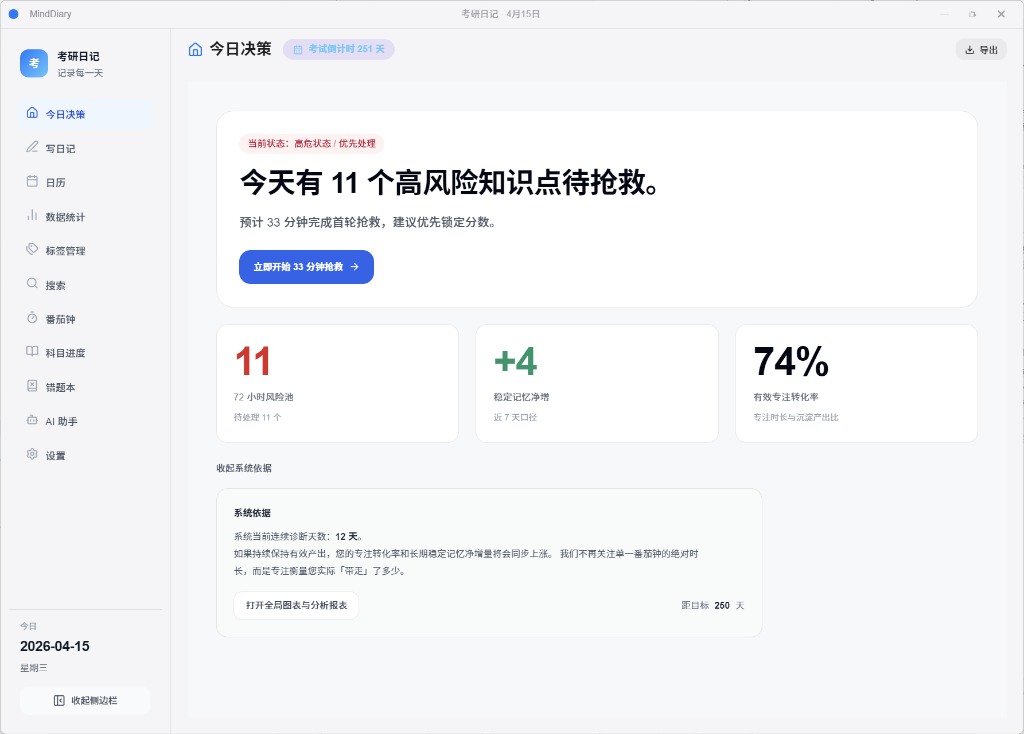
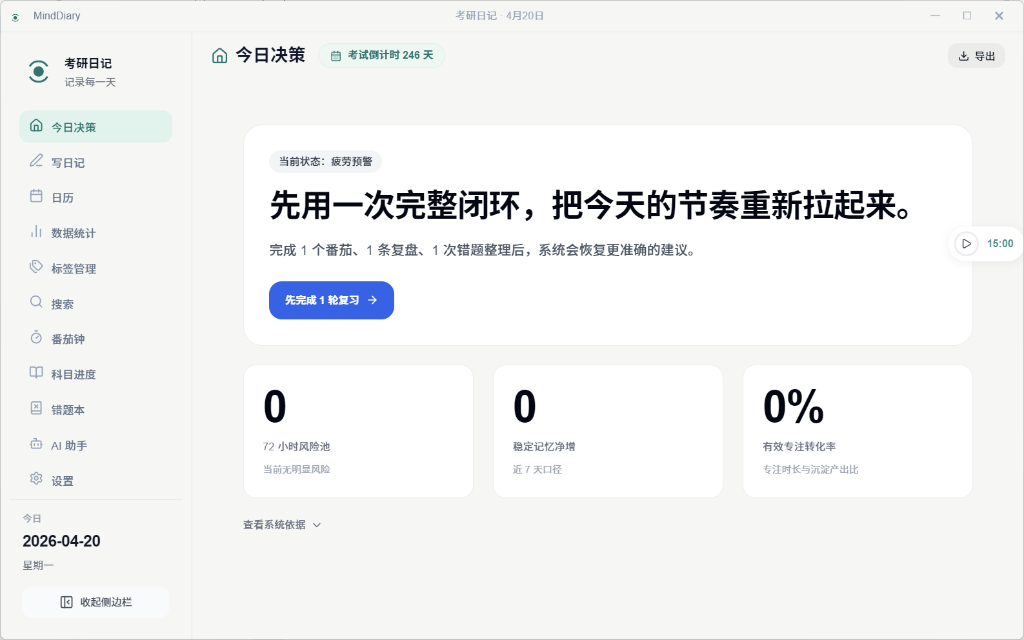
chore: release v1.7.1 - Zen Forest UI final polish and documentation assets update

diff --git a/src/components/AIPanel.tsx b/src/components/AIPanel.tsx
@@ -159,10 +159,10 @@ export default function AIPanel({ entry }: AIPanelProps) {
             position: 'relative'
         }}>
             {/* Header */}
-            <div className="flex items-center justify-between" style={{ padding: 'var(--space-md) var(--space-xl)', borderBottom: '1px solid var(--border-light)', background: 'var(--bg-secondary)', backdropFilter: 'blur(10px)', position: 'sticky', top: 0, zIndex: 10 }}>
+            <div className="flex items-center justify-between" style={{ padding: 'var(--space-md) var(--space-xl)', background: 'transparent', backdropFilter: 'blur(10px)', position: 'sticky', top: 0, zIndex: 10 }}>
                 <div className="flex items-center gap-sm">
-                    <div style={{ width: 36, height: 36, borderRadius: 12, overflow: 'hidden', display: 'flex', alignItems: 'center', justifyContent: 'center', background: 'var(--bg-tertiary)' }}>
-                        <img src="./images/xiao_yan_avatar.png" alt="小研" style={{ width: '100%', height: '100%', objectFit: 'cover' }} />
+                    <div style={{ width: 36, height: 36, borderRadius: 12, display: 'flex', alignItems: 'center', justifyContent: 'center', background: 'linear-gradient(135deg, var(--accent-light), var(--bg-tertiary))', color: 'var(--accent)' }}>
+                        <Bot size={20} />
                     </div>
                     <div>
                         <h2 style={{ fontSize: 16, fontWeight: 600, margin: 0 }}>小研</h2>
@@ -182,26 +182,29 @@ export default function AIPanel({ entry }: AIPanelProps) {
                 {messages.length === 0 && (
                     <div className="empty-state" style={{ height: '100%', animation: 'page-fade-in 0.5s ease-out' }}>
                         <div style={{
-                            width: 80, height: 80, borderRadius: 24, overflow: 'hidden',
-                            display: 'flex', alignItems: 'center', justifyContent: 'center', marginBottom: 'var(--space-md)'
+                            width: 80, height: 80, borderRadius: 24,
+                            display: 'flex', alignItems: 'center', justifyContent: 'center', marginBottom: 'var(--space-md)',
+                            background: 'linear-gradient(135deg, var(--accent-light), var(--bg-tertiary))',
+                            color: 'var(--accent)',
+                            boxShadow: 'inset 0 4px 10px rgba(255,255,255,0.6), var(--shadow-sm)'
                         }}>
-                            <img src="./images/xiao_yan_avatar.png" alt="小研" style={{ width: '100%', height: '100%', objectFit: 'cover' }} />
+                            <Bot size={40} />
                         </div>
                         <h3 style={{ fontSize: 20, marginBottom: 'var(--space-sm)' }}>我是你的专属考研智囊</h3>
                         <p className="text-muted" style={{ maxWidth: 300, textAlign: 'center', lineHeight: 1.6, marginBottom: 'var(--space-2xl)' }}>
                             我可以直接读取你的日记、错题与学习进度，为你提供定制化的复习策略和情绪价值。
                         </p>
 
-                        <div style={{ display: 'grid', gridTemplateColumns: '1fr 1fr', gap: 'var(--space-md)', width: '100%', maxWidth: 500 }}>
+                        <div style={{ display: 'flex', flexWrap: 'wrap', gap: 'var(--space-md)', justifyContent: 'center', width: '100%', maxWidth: 640 }}>
                             {quickPrompts.map((p, i) => (
-                                <button key={i} className="card flex items-center gap-sm cursor-pointer"
-                                    style={{ padding: 'var(--space-md)', border: '1px solid var(--border)', background: 'var(--bg-secondary)', textAlign: 'left', transition: 'all 0.2s' }}
+                                <button key={i} className="flex items-center gap-2 cursor-pointer whitespace-nowrap"
+                                    style={{ padding: '8px 16px', borderRadius: 9999, border: '1px solid var(--border)', background: 'transparent', color: 'var(--text-secondary)', transition: 'all 0.2s' }}
                                     onClick={p.action}
-                                    onMouseEnter={e => Object.assign(e.currentTarget.style, { transform: 'translateY(-2px)', borderColor: 'var(--accent)', boxShadow: 'var(--shadow-sm)' })}
-                                    onMouseLeave={e => Object.assign(e.currentTarget.style, { transform: 'translateY(0)', borderColor: 'var(--border)', boxShadow: 'none' })}
+                                    onMouseEnter={e => Object.assign(e.currentTarget.style, { background: 'var(--bg-tertiary)', color: 'var(--text-primary)', borderColor: 'transparent', transform: 'translateY(-1px)' })}
+                                    onMouseLeave={e => Object.assign(e.currentTarget.style, { background: 'transparent', color: 'var(--text-secondary)', borderColor: 'var(--border)', transform: 'translateY(0)' })}
                                 >
-                                    <span style={{ display: 'flex', alignItems: 'center', justifyContent: 'center', color: 'var(--text-secondary)' }}>{p.icon}</span>
-                                    <span style={{ fontSize: 14, fontWeight: 500 }}>{p.label}</span>
+                                    <span style={{ display: 'flex', alignItems: 'center', justifyContent: 'center', opacity: 0.8 }}>{p.icon}</span>
+                                    <span style={{ fontSize: 13, fontWeight: 500 }}>{p.label}</span>
                                 </button>
                             ))}
                         </div>
@@ -267,15 +270,14 @@ export default function AIPanel({ entry }: AIPanelProps) {
             {/* Input Footer */}
             <div style={{
                 padding: 'var(--space-md) var(--space-xl)',
-                background: 'var(--bg-secondary)',
-                borderTop: '1px solid var(--border)',
+                background: 'transparent',
                 zIndex: 10
             }}>
                 <div style={{
                     display: 'flex', alignItems: 'flex-end', gap: 'var(--space-sm)',
-                    background: 'var(--bg-primary)', padding: '8px',
+                    background: 'var(--bg-secondary)', padding: '8px',
                     borderRadius: 24, border: '1px solid var(--border-light)',
-                    boxShadow: 'var(--shadow-sm)'
+                    boxShadow: '0 4px 20px rgba(0,0,0,0.04)'
                 }}>
                     <textarea
                         className="input"

diff --git a/src/components/HomeDashboard.tsx b/src/components/HomeDashboard.tsx
@@ -58,7 +58,7 @@ export default function HomeDashboard({ setActiveView }: HomeDashboardProps) {
   }
 
   return (
-    <div className="w-full min-h-full bg-[#f7f8fa] dark:bg-[#0a0a0a] overflow-y-auto">
+    <div className="w-full min-h-full bg-transparent overflow-y-auto">
       <div className="mx-auto max-w-6xl px-6 py-8 md:px-10 md:py-10">
         <div className="space-y-6">
           
@@ -86,13 +86,17 @@ export default function HomeDashboard({ setActiveView }: HomeDashboardProps) {
           </section>
 
           <section className="max-w-3xl">
-            <button 
-              type="button"
-              onClick={() => setShowDetails(!showDetails)}
-              className="inline-flex items-center gap-2 text-sm font-medium text-gray-600 bg-transparent border-0 outline-none appearance-none hover:text-gray-900 dark:text-gray-400 dark:hover:text-white transition-colors"
-            >
-              {showDetails ? '收起系统依据' : '查看系统依据'}
-            </button>
+            <div className="flex items-center gap-3">
+              <button 
+                type="button"
+                onClick={() => setShowDetails(!showDetails)}
+                className="inline-flex items-center gap-1.5 text-sm font-medium text-gray-500 bg-transparent border-0 outline-none appearance-none hover:text-[var(--accent)] dark:text-gray-400 transition-colors"
+              >
+                {showDetails ? '收起系统依据' : '查看系统依据'}
+                {showDetails ? <ChevronUp size={16} /> : <ChevronDown size={16} />}
+              </button>
+              {!showDetails && <div className="h-px w-24 bg-gradient-to-r from-gray-200 to-transparent dark:from-gray-800" />}
+            </div>
             
             {showDetails && (
               <div className="mt-4 rounded-2xl border border-gray-200 dark:border-gray-800 bg-gray-50/70 dark:bg-gray-900/50 p-5 md:p-6 opacity-[0.98]">

diff --git a/src/components/MistakeBook.tsx b/src/components/MistakeBook.tsx
@@ -387,7 +387,9 @@ export default function MistakeBook() {
                 ))}
                 {mistakes.length === 0 && (
                     <div className="flex flex-col items-center justify-center text-center" style={{ minHeight: 400, gap: 'var(--space-md)' }}>
-                        <img src="/images/mistakebook_empty.png" alt="空错题本" style={{ width: 120, height: 120, objectFit: 'contain', opacity: 0.9, marginBottom: 'var(--space-sm)' }} />
+                        <div style={{ width: 100, height: 100, borderRadius: '50%', background: 'var(--bg-tertiary)', display: 'flex', alignItems: 'center', justifyContent: 'center', marginBottom: 'var(--space-sm)', border: '2px solid var(--bg-secondary)', boxShadow: 'var(--shadow-sm)' }}>
+                            <BookX size={48} style={{ color: 'var(--accent)', opacity: 0.9 }} />
+                        </div>
                         <h3 className="text-lg font-medium">还没有错题记录</h3>
                         <p className="text-muted" style={{ maxWidth: 300 }}>
                             你可以将遇到的错题或需要背诵的知识点记录在这里，支持关联科目并随时复习。

diff --git a/src/components/Countdown.tsx b/src/components/Countdown.tsx
@@ -51,9 +51,10 @@ function Countdown() {
     <div style={{
       display: 'inline-flex', alignItems: 'center', gap: 'var(--space-sm)',
       padding: '4px 14px', borderRadius: 20,
-      background: daysLeft < 30 ? 'rgba(239,68,68,0.15)' : 'rgba(139,92,246,0.15)',
-      color: daysLeft < 30 ? 'var(--danger)' : 'var(--accent-light)',
-      fontSize: 13
+      background: daysLeft < 30 ? 'rgba(217,119,6,0.1)' : 'var(--bg-tertiary)',
+      color: daysLeft < 30 ? 'var(--warning)' : 'var(--accent)',
+      fontSize: 13,
+      border: '1px solid var(--border-light)'
     }}>
       <span style={{ display: 'flex', alignItems: 'center' }}><CalendarDays size={14} /></span>
       <span className="font-semibold" style={{ display: 'flex', alignItems: 'center', gap: 4 }}>{getMessage(daysLeft)}</span>

diff --git a/electron/main.ts b/electron/main.ts
@@ -28,7 +28,8 @@ function createWindow() {
             contextIsolation: true,
             nodeIntegration: false,
             preload: path.join(__dirname, 'preload.js')
-        }
+        },
+        icon: path.join(__dirname, '..', 'build', 'icon.png')
     });
 
     // Push maximize state changes to renderer for titlebar icon sync

diff --git a/src/index.css b/src/index.css
@@ -474,7 +474,7 @@ body {
   text-align: center;
 }
 
-.empty-state svg {
+.empty-state > .hero-svg {
   width: 80px;
   height: 80px;
   margin-bottom: var(--space-md);

diff --git a/README.md b/README.md
@@ -104,13 +104,19 @@
 ## 📸 界面预览
 
 <p align="center">
-  <img src="./docs/assets/editor.png" width="45%" alt="日记编辑器"/>
+  <img src="./docs/assets/dashboard.png" width="45%" alt="今日决策看板"/>
   &nbsp;&nbsp;
-  <img src="./docs/assets/dashboard.png" width="45%" alt="数据统计面板"/>
+  <img src="./docs/assets/editor.png" width="45%" alt="日记编辑器"/>
 </p>
 
 <p align="center">
   <img src="./docs/assets/pomodoro.png" width="45%" alt="番茄钟"/>
+  &nbsp;&nbsp;
+  <img src="./docs/assets/ai-assistant.png" width="45%" alt="AI 助手"/>
+</p>
+
+<p align="center">
+  <img src="./docs/assets/statistics.png" width="45%" alt="数据统计分析"/>
   &nbsp;&nbsp;
   <img src="./docs/assets/mistake-book.png" width="45%" alt="错题本"/>
 </p>
@@ -208,6 +214,11 @@ tests/              # Vitest 单元测试 + 组件测试
 ---
 
 ## 📋 更新日志
+
+### v1.7.1 — 视觉与交互体验抛光 (2026-04-20)
+- ✨ **Apple HIG 质感打磨** — 彻底废弃旧版突兀的 AI 生成素材占位图，全面采用原生的轻量级 SVG 组合与透明毛玻璃材质，使组件在浅色和暗色模式下完美融入背景。
+- 💊 **快捷指令原生化** — AI 助手的指令提示从“大白框”重构为现代 AI 标配的空心胶囊（Pill）样式，辅以精细的 `--accent` Hover 动效，大幅剔除了前序版本的视觉噪音。
+- ✅ **全架构验收通过** — 移除了遗留的私有调试文稿，通过了 `TypeScript` 与全部 52 个 `Vitest` 测试的验证，确立 1.7.x 版本支柱稳定性。
 
 ### v1.7.0 — Zen Forest 品牌重塑 (2026-04-19)
 - 🎨 **纯净感知环境** — 将整体色调从“通用工具蓝”重构为更具沉浸感、更低心智压力的 **「深林冥想 (Zen Forest)」** 色系。
